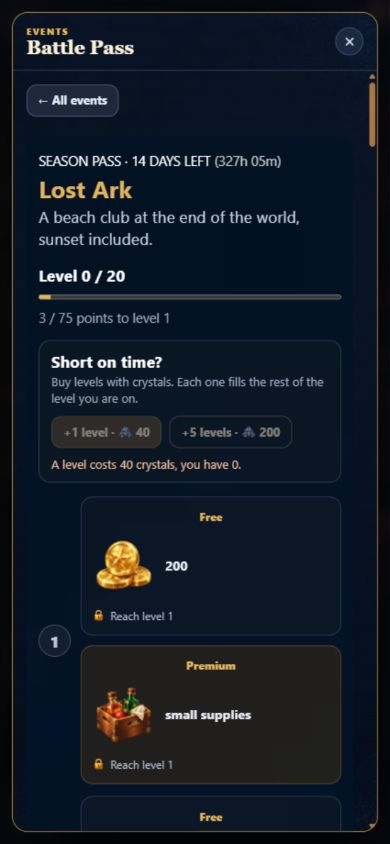
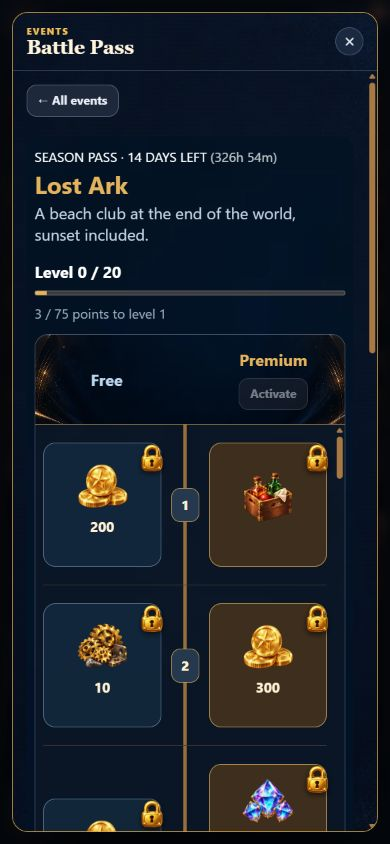
Align vertical pass tracks with Free left and Premium right

diff --git a/src/components/workshop/SeasonPass.vue b/src/components/workshop/SeasonPass.vue
@@ -4,7 +4,7 @@ import { computed, ref } from 'vue';
 import { INTERIORS, interiorStyle, type InteriorId } from '../../data/cosmetics/bars';
 import { COSMETICS } from '../../domain/cosmetics';
 import { formatCountdown } from '../../domain/customerTiming';
-import { BOXES, CONSUMABLES, EQUIPMENT, describeReward } from '../../domain/loot';
+import { CONSUMABLES, EQUIPMENT, describeReward } from '../../domain/loot';
 import { PASS_LEVELS, PASS_LEVEL_POINTS, PASS_LEVEL_PRICE, PASS_POINTS, PASS_PREMIUM_PRICE, PASS_SOURCES, PASS_STYLES_LEVEL, passClaimKey, passRewards, themeStyleIds, type PassReward } from '../../domain/pass';
 import { useGameStore } from '../../stores/game';
 import CharacterModel from '../characters/CharacterModel.vue';
@@ -34,25 +34,9 @@ function text(reward: PassReward): string {
   if (reward.kind === 'cosmetics') return reward.ids.map((id) => `${id.endsWith(':noa') ? 'Noa' : 'Leo'}: ${label(id)}`).join(' + ');
   return describeReward(reward, names);
 }
-// The small picture and the short caption of a reward cell on the track.
-interface Look { kind?: 'box' | 'item' | 'shard' | 'resource'; id?: string; fallback: string; caption: string }
-function look(reward: PassReward): Look {
-  switch (reward.kind) {
-    case 'coins': return { kind: 'resource', id: 'coins', fallback: '🪙', caption: `${reward.amount}` };
-    case 'crystals': return { kind: 'resource', id: 'crystals', fallback: '💎', caption: `${reward.amount}` };
-    case 'xp': return { kind: 'resource', id: 'xp', fallback: '⭐', caption: `${reward.amount} XP` };
-    case 'parts': return { kind: 'shard', id: 'parts', fallback: '⚙', caption: `${reward.amount} parts` };
-    case 'skinShards': return { kind: 'shard', id: 'skin', fallback: '👗', caption: `${reward.amount} random outfit fragments` };
-    case 'stylePieces': return { kind: 'shard', id: 'style', fallback: '🧵', caption: `${reward.amount} outfit fragments` };
-    case 'companionShards': return { kind: 'shard', id: 'circle', fallback: '🤝', caption: `${reward.amount} Circle` };
-    case 'box': return { kind: 'box', id: reward.box, fallback: BOXES.find((item) => item.id === reward.box)?.icon ?? '📦', caption: `${reward.box} box` };
-    case 'consumable': return { kind: 'item', id: reward.id, fallback: CONSUMABLES.find((item) => item.id === reward.id)?.icon ?? '🎁', caption: `${names.consumable(reward.id)}${reward.amount > 1 ? ` ×${reward.amount}` : ''}` };
-    case 'supplies': return { fallback: '🧺', caption: `${reward.size} supplies` };
-    case 'prestige': return { fallback: '🏅', caption: `+${reward.amount} prestige` };
-    case 'interior': return { fallback: '🖼', caption: 'Background' };
-    case 'cosmetics': return { fallback: '👗', caption: 'Costumes' };
-    default: return { fallback: '🎁', caption: text(reward) };
-  }
+function quantity(reward: PassReward): string {
+  if ('amount' in reward) return String(reward.amount);
+  return '';
 }
 function rewardPictures(reward: PassReward): RewardLine[] {
   const caption = text(reward);
@@ -102,6 +86,24 @@ const previewOpen = ref(false);
       </div>
     </header>
 
+    <section class="pass-reward-list" aria-label="Pass levels">
+      <div class="pass-track-head"><b>Free</b><span></span><div><b>Premium</b><UiButton v-if="!game.passPremium" size="sm" :disabled="game.crystals < PASS_PREMIUM_PRICE" :title="'Unlock for ' + PASS_PREMIUM_PRICE + ' crystals'" @click="game.buyPassPremium()">Activate</UiButton><small v-else>Activated</small></div></div>
+      <ol class="pass-track">
+        <li v-for="row in rows" :key="row.level" :data-level="row.level" :class="{ reached: level >= row.level, current: level === row.level }">
+          <div class="pass-node"><span>{{ row.level }}</span></div>
+          <button v-for="tier in (['free', 'premium'] as const)" :key="tier" type="button" class="pass-cell" :class="[tier, state(tier, row.level)]" :disabled="state(tier, row.level) !== 'ready'" :aria-label="tier + ' level ' + row.level + ': ' + row[tier].map(text).join(', ') + '. ' + stateText(tier, row.level)" @click="game.claimPass(tier, row.level)">
+
+            <div v-for="(reward, index) in row[tier]" :key="index" class="pass-reward" :title="text(reward)">
+              <div class="pass-cell-art"><RewardArt v-for="(picture, pictureIndex) in rewardPictures(reward)" :key="pictureIndex" :line="picture" /></div>
+              <b v-if="quantity(reward)">{{ quantity(reward) }}</b>
+            </div>
+            <span class="pass-lock" v-if="!['claimed', 'ready'].includes(state(tier, row.level))"><UiIcon name="lock" /></span><small v-else class="pass-status">{{ state(tier, row.level) === 'claimed' ? 'Claimed' : 'Claim' }}</small>
+          </button>
+        </li>
+      </ol>
+    </section>
+    <p class="pass-hint">Scroll through the levels. Tap an available reward to claim it.</p>
+
     <section class="pass-buy" aria-label="Buy levels">
       <div><b>Short on time?</b><small>Buy levels with crystals. Each one fills the rest of the level you are on.</small></div>
       <div class="pass-buy-buttons">
@@ -110,24 +112,6 @@ const previewOpen = ref(false);
         <small v-else-if="game.crystals < PASS_LEVEL_PRICE" class="pass-need">A level costs {{ PASS_LEVEL_PRICE }} crystals, you have {{ Math.floor(game.crystals) }}.</small>
       </div>
     </section>
-
-    <section class="pass-reward-list" aria-label="Pass levels">
-      <div class="pass-track-head"><span>Level</span><b>Free rewards</b><b>Premium rewards</b></div>
-      <ol class="pass-track">
-        <li v-for="row in rows" :key="row.level" :data-level="row.level" :class="{ reached: level >= row.level, current: level === row.level }">
-          <div class="pass-node"><span>{{ row.level }}</span></div>
-          <button v-for="tier in (['free', 'premium'] as const)" :key="tier" type="button" class="pass-cell" :class="[tier, state(tier, row.level)]" :disabled="state(tier, row.level) !== 'ready'" :aria-label="tier + ' level ' + row.level + ': ' + row[tier].map(text).join(', ') + '. ' + stateText(tier, row.level)" @click="game.claimPass(tier, row.level)">
-            <span class="pass-track-label">{{ tier === 'free' ? 'Free' : 'Premium' }}</span>
-            <div v-for="(reward, index) in row[tier]" :key="index" class="pass-reward">
-              <div class="pass-cell-art"><RewardArt v-for="(picture, pictureIndex) in rewardPictures(reward)" :key="pictureIndex" :line="picture" /></div>
-              <b>{{ look(reward).caption }}</b>
-            </div>
-            <small class="pass-status"><UiIcon v-if="!['claimed', 'ready'].includes(state(tier, row.level))" name="lock" />{{ stateText(tier, row.level) }}</small>
-          </button>
-        </li>
-      </ol>
-    </section>
-    <p class="pass-hint">Scroll through the levels. Tap an available reward to claim it.</p>
 
     <section class="pass-points" aria-label="How to earn pass points">
       <header><small>HOW TO EARN POINTS</small><b>{{ PASS_LEVEL_POINTS }} points make a level</b></header>
@@ -178,32 +162,40 @@ const previewOpen = ref(false);
 .pass-buy-buttons { display: flex; flex-wrap: wrap; align-items: center; gap: 8px; }
 .pass-need { flex-basis: 100%; color: #f2b99a !important; }
 
-.pass-reward-list { min-width:0; }
-.pass-track-head,.pass-track > li { display:grid;grid-template-columns:42px minmax(0,1fr) minmax(0,1fr);gap:12px;align-items:stretch; }
-.pass-track-head { padding:0 0 12px;color:#e4b35c;font-size:13px;text-align:center; }
-.pass-track { display:grid;gap:12px;margin:0;padding:0;list-style:none; }
-.pass-node { display:flex;align-items:center;justify-content:center; }
-.pass-node span { display:grid;place-items:center;width:32px;height:32px;border:1px solid #4c5f7b;border-radius:50%;background:#131e30;color:#bbc9dc;font-weight:800; }
-.pass-track > li.reached .pass-node span { border-color:#edc578;background:#4a3720;color:#fff0ce; }
-.pass-cell { display:grid;align-content:start;gap:12px;min-width:0;padding:14px;border:1px solid #354762;border-radius:12px;background:#0c1725cc;color:#e9eef7;font:inherit;text-align:left; }
-.pass-cell.premium { background:#302719a6;border-color:#d8aa5760; }
-.pass-track-label { display:none;font-size:11px;color:#e4b35c;font-weight:800; }
-.pass-reward { display:flex;align-items:center;gap:12px;min-width:0; }
-.pass-reward b { font-size:13px;line-height:1.4;overflow-wrap:break-word; }
-.pass-cell-art { display:flex;align-items:center;justify-content:center;width:60px;height:60px;flex:none;gap:2px; }
-.pass-cell-art > .reward-art { flex:1;min-width:0;height:60px; }
-.pass-cell-art .item-art { width:60px;height:60px; }
-.pass-status { display:flex;align-items:center;gap:6px;color:#aebed2;font-size:11px; }
-.pass-cell.claimed .pass-status { color:#8fd1a0; }
-.pass-cell.ready { cursor:pointer;border-color:#edc578;background:#3b2b1f; }
+.pass-reward-list { min-width:0;border:1px solid #536078;border-radius:14px;background:#0c1725cc;overflow:hidden; }
+.pass-track-head,.pass-track > li { display:grid;grid-template-columns:minmax(0,1fr) 40px minmax(0,1fr);gap:10px;align-items:center; }
+.pass-track-head { padding:14px 12px;color:#e4b35c;font-size:16px;text-align:center;border-bottom:1px solid #947440;background:#142039 url('/assets/ui/pass-panel-painted-v1.webp') center / cover; }
+.pass-track-head > div { display:grid;justify-items:center;gap:8px; }
+.pass-track-head small { font-size:11px; }
+.pass-track-head > b { color:#bbd5ee; }
+.pass-track { display:grid;margin:0;padding:0 12px;list-style:none;max-height:min(52vh,520px);overflow-y:auto;overscroll-behavior:contain; }
+.pass-track > li { position:relative;padding:18px 0;border-bottom:1px solid #94744066; }
+.pass-node { grid-column:2;grid-row:1;align-self:stretch;display:grid;place-items:center;position:relative; }
+.pass-node::before { content:'';position:absolute;top:-18px;bottom:-18px;width:3px;background:#977039; }
+.pass-node span { position:relative;display:grid;place-items:center;width:34px;height:38px;border:1px solid #b89858;border-radius:9px;background:#25384d;color:#fff0ce;font-weight:800; }
+.pass-track > li.reached .pass-node span { background:#805b28;border-color:#edc578; }
+.pass-cell { position:relative;grid-row:1;display:flex;flex-wrap:wrap;align-content:center;justify-content:center;gap:10px;min-width:0;min-height:125px;padding:12px 8px 28px;border:1px solid #607c9a;border-radius:12px;background:#142a40cc;color:#e9eef7;font:inherit;text-align:center; }
+.pass-cell.premium { grid-column:3;background:#4b351ccc;border-color:#cda050; }
+.pass-cell.free { grid-column:1; }
+.pass-reward { display:grid;justify-items:center;gap:4px;min-width:0; }
+.pass-reward b { font-size:14px;line-height:1.2;color:#fff3d7; }
+.pass-cell-art { display:flex;align-items:center;justify-content:center;width:64px;height:64px;gap:2px; }
+.pass-cell-art > .reward-art { flex:1;min-width:0;height:64px; }
+.pass-cell-art .item-art { width:64px;height:64px; }
+.pass-lock { position:absolute;right:-5px;top:-8px;font-size:27px;filter:drop-shadow(0 2px 3px #000a); }
+.pass-status { position:absolute;bottom:8px;left:0;right:0;color:#8fd1a0;font-size:11px;font-weight:800; }
+.pass-cell.ready { cursor:pointer;border-color:#edc578;box-shadow:0 0 12px #edc57835; }
 .pass-cell.ready .pass-status { color:#ffdc85; }
 .pass-hint { margin:0;color:#aebed2;font-size:12px;line-height:1.5; }
 @media(max-width:540px){
- .pass-track-head { display:none; }
- .pass-track > li { grid-template-columns:32px minmax(0,1fr);gap:10px; }
- .pass-node { grid-row:span 2; }
- .pass-cell { grid-column:2;padding:12px; }
- .pass-track-label { display:block; }
+ .pass{padding:8px;gap:12px;}
+ .pass-track-head,.pass-track > li{grid-template-columns:minmax(0,1fr) 32px minmax(0,1fr);gap:8px;}
+ .pass-track{padding:0 8px;}
+ .pass-node span{width:28px;height:34px;font-size:13px;}
+ .pass-cell{padding:10px 4px 25px;min-height:124px;gap:8px;}
+ .pass-cell-art{width:54px;height:54px;}
+ .pass-cell-art > .reward-art{height:54px;}
+ .pass-cell-art .item-art{width:54px;height:54px;}
 }
 
 .pass-points { display: grid; gap: 8px; padding: 12px; border: 1px solid #354762; border-radius: 12px; background: #111c2d; }
